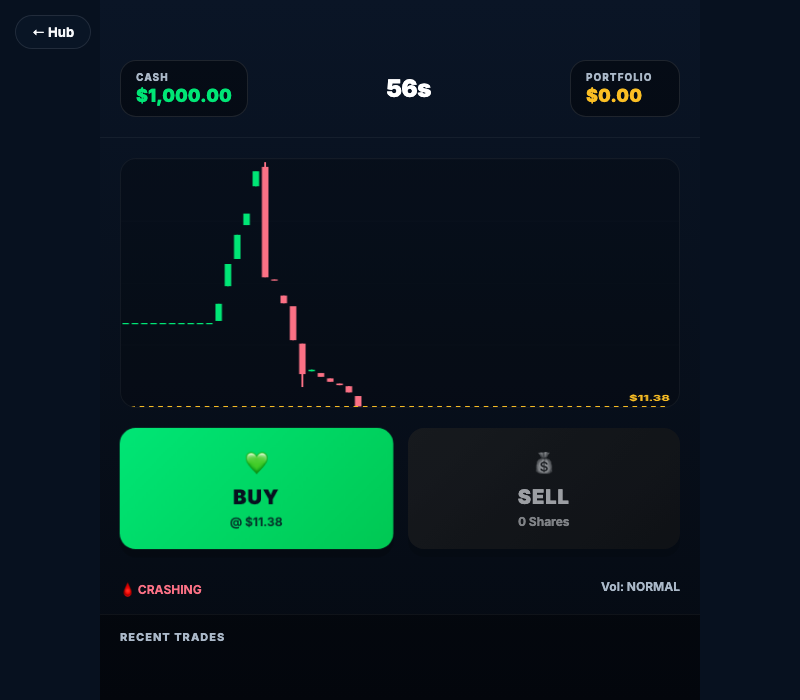
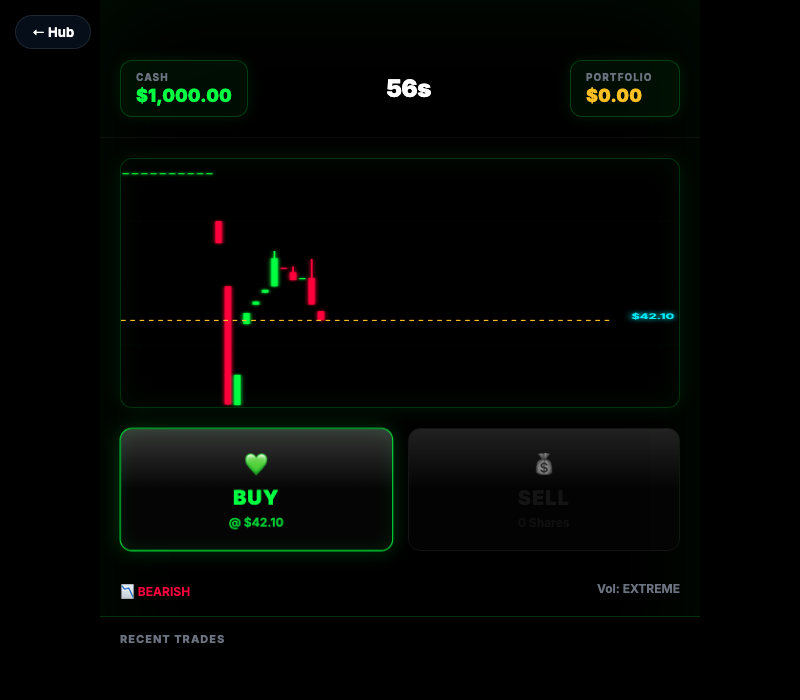
Upgrade graphics to pure black with extreme neon cyber glow

diff --git a/bot-buy-the-dip/style.css b/bot-buy-the-dip/style.css
@@ -1,15 +1,15 @@
 @import url('https://fonts.googleapis.com/css2?family=Inter:wght@400;600;700;800;900&display=swap');
 
 :root {
-  --mb-green: #00E676;
-  --mb-green-dark: #00C853;
-  --mb-ink: #07111F;
-  --mb-ink-2: #0B1628;
-  --mb-white: #F8FAFC;
-  --mb-muted: #AAB8C8;
-  --mb-red: #FB7185;
+  --mb-green: #00FF41;
+  --mb-green-dark: #008F11;
+  --mb-ink: #000000;
+  --mb-ink-2: #050505;
+  --mb-white: #FFFFFF;
+  --mb-muted: #6B7280;
+  --mb-red: #FF003C;
   --mb-gold: #FBBF24;
-  --mb-blue: #38BDF8;
+  --mb-blue: #00F0FF;
 }
 
 * {
@@ -43,8 +43,9 @@ body {
   width: 100%; max-width: 600px;
   height: 100%;
   display: flex; flex-direction: column;
-  background: linear-gradient(to bottom, #0A1526, #050A12);
+  background: #000000;
   position: relative;
+  box-shadow: inset 0 0 100px rgba(0, 255, 65, 0.05);
 }
 
 /* Header */
@@ -55,11 +56,12 @@ body {
 }
 
 .score-pill {
-  background: rgba(0, 0, 0, 0.4);
-  border: 1px solid rgba(255, 255, 255, 0.1);
-  padding: 10px 15px; border-radius: 16px;
+  background: rgba(0, 255, 65, 0.05);
+  border: 1px solid rgba(0, 255, 65, 0.2);
+  padding: 10px 15px; border-radius: 12px;
   display: flex; flex-direction: column;
   min-width: 110px;
+  box-shadow: 0 0 15px rgba(0, 255, 65, 0.1);
 }
 .score-pill .label { font-size: 10px; color: var(--mb-muted); font-weight: 800; letter-spacing: 1px; margin-bottom: 2px; }
 .score-pill .value { font-size: 18px; color: var(--mb-white); font-weight: 900; }
@@ -83,10 +85,11 @@ body {
 
 canvas {
   width: 100%; height: 250px;
-  background: rgba(0, 0, 0, 0.2);
-  border-radius: 16px;
-  border: 1px solid rgba(255, 255, 255, 0.05);
+  background: #000000;
+  border-radius: 12px;
+  border: 1px solid rgba(0, 255, 65, 0.2);
   margin-bottom: 20px;
+  box-shadow: inset 0 0 30px rgba(0, 255, 65, 0.05), 0 0 20px rgba(0, 255, 65, 0.1);
 }
 
 /* Trade Buttons */
@@ -97,15 +100,22 @@ canvas {
 
 .trade-btn {
   flex: 1;
-  border: none; border-radius: 16px;
+  border: 1px solid transparent;
+  border-radius: 12px;
   padding: 20px 10px;
   display: flex; flex-direction: column; align-items: center; justify-content: center;
   cursor: pointer; transition: all 0.2s;
-  box-shadow: 0 8px 0 rgba(0, 0, 0, 0.2);
+  box-shadow: 0 0 20px rgba(0, 0, 0, 0.5);
+  position: relative;
+  overflow: hidden;
+}
+.trade-btn::before {
+  content: ''; position: absolute; top: 0; left: 0; right: 0; height: 50%;
+  background: linear-gradient(rgba(255,255,255,0.2), transparent);
 }
 .trade-btn:active:not(:disabled) {
-  transform: translateY(8px);
-  box-shadow: 0 0 0 rgba(0, 0, 0, 0);
+  transform: scale(0.95);
+  box-shadow: 0 0 10px currentColor;
 }
 .trade-btn:disabled {
   opacity: 0.5; filter: grayscale(1);
@@ -113,12 +123,16 @@ canvas {
 }
 
 .trade-btn.buy {
-  background: linear-gradient(135deg, var(--mb-green), var(--mb-green-dark));
-  color: var(--mb-ink);
+  background: var(--mb-ink-2);
+  border-color: var(--mb-green);
+  color: var(--mb-green);
+  box-shadow: 0 0 20px rgba(0, 255, 65, 0.2), inset 0 0 20px rgba(0, 255, 65, 0.1);
 }
 .trade-btn.sell {
-  background: linear-gradient(135deg, var(--mb-red), #e11d48);
-  color: white;
+  background: var(--mb-ink-2);
+  border-color: var(--mb-red);
+  color: var(--mb-red);
+  box-shadow: 0 0 20px rgba(255, 0, 60, 0.2), inset 0 0 20px rgba(255, 0, 60, 0.1);
 }
 
 .btn-icon { font-size: 24px; margin-bottom: 5px; }
@@ -137,10 +151,11 @@ canvas {
 /* History */
 .history-container {
   height: 150px;
-  background: rgba(0, 0, 0, 0.3);
-  border-top: 1px solid rgba(255, 255, 255, 0.05);
+  background: #000000;
+  border-top: 1px solid rgba(0, 255, 65, 0.2);
   padding: 15px 20px;
   display: flex; flex-direction: column;
+  box-shadow: inset 0 10px 20px rgba(0, 0, 0, 0.5);
 }
 .history-header {
   font-size: 11px; font-weight: 800; color: var(--mb-muted); text-transform: uppercase; letter-spacing: 1px;
@@ -154,8 +169,9 @@ canvas {
   display: flex; justify-content: space-between;
   font-size: 13px; font-weight: 600;
   padding: 8px 12px;
-  background: rgba(255, 255, 255, 0.03);
-  border-radius: 8px;
+  background: #0a0a0a;
+  border: 1px solid rgba(255, 255, 255, 0.05);
+  border-radius: 6px;
   animation: slideIn 0.3s ease-out;
 }
 .trade-item.buy { border-left: 3px solid var(--mb-green); }
@@ -175,9 +191,10 @@ canvas {
 }
 .modal.active { opacity: 1; pointer-events: all; }
 .modal-content {
-  background: linear-gradient(145deg, rgba(15, 30, 50, 0.95), rgba(7, 15, 25, 0.98));
-  border: 1px solid rgba(255, 255, 255, 0.1);
-  border-radius: 24px;
+  background: #000000;
+  border: 1px solid var(--mb-green);
+  box-shadow: 0 0 50px rgba(0, 255, 65, 0.2), inset 0 0 30px rgba(0, 255, 65, 0.1);
+  border-radius: 16px;
   padding: 40px 30px;
   text-align: center;
   max-width: 350px; width: 90%;
@@ -193,13 +210,17 @@ canvas {
 
 .primary-btn {
   width: 100%; padding: 16px;
-  background: linear-gradient(135deg, var(--mb-green), var(--mb-green-dark));
-  border: none; border-radius: 16px;
+  background: #000000;
+  border: 1px solid var(--mb-green);
+  border-radius: 12px;
   font-size: 16px; font-weight: 900;
-  color: var(--mb-ink); cursor: pointer;
-  transition: transform 0.2s;
+  color: var(--mb-green); cursor: pointer;
+  transition: all 0.2s;
+  text-transform: uppercase;
+  letter-spacing: 2px;
+  box-shadow: 0 0 15px rgba(0, 255, 65, 0.2);
 }
-.primary-btn:active { transform: scale(0.96); }
+.primary-btn:active { transform: scale(0.96); box-shadow: 0 0 30px rgba(0, 255, 65, 0.5); }
 
 /* Floating Text */
 .float-text {
@@ -266,11 +287,17 @@ canvas {
 
 /* Enhanced button states */
 .trade-btn.buy:disabled {
-  background: linear-gradient(135deg, #1a3a2a, #0f2a1a);
+  background: #050505;
+  border-color: #1a3a2a;
+  color: #1a3a2a;
+  box-shadow: none;
   opacity: 0.6;
 }
 
 .trade-btn.sell:disabled {
-  background: linear-gradient(135deg, #3a1a2a, #2a0f1a);
+  background: #050505;
+  border-color: #3a1a2a;
+  color: #3a1a2a;
+  box-shadow: none;
   opacity: 0.6;
 }

diff --git a/bot-buy-the-dip/game.js b/bot-buy-the-dip/game.js
@@ -203,11 +203,11 @@ function updateMarket(dt) {
             triggerEvent();
         }
         
-        if (trend > 0.5) { trendEl.textContent = '🚀 MEGA BULL'; trendEl.style.color = '#00E676'; }
-        else if (trend > 0.2) { trendEl.textContent = '📈 BULL RUN'; trendEl.style.color = '#00E676'; }
-        else if (trend > -0.2) { trendEl.textContent = '🔄 CHOPPY'; trendEl.style.color = '#FBBF24'; }
-        else if (trend > -0.5) { trendEl.textContent = '📉 BEARISH'; trendEl.style.color = '#FB7185'; }
-        else { trendEl.textContent = '🩸 CRASHING'; trendEl.style.color = '#FB7185'; }
+        if (trend > 0.5) { trendEl.textContent = '🚀 MEGA BULL'; trendEl.style.color = '#00FF41'; trendEl.style.textShadow = '0 0 10px #00FF41'; }
+        else if (trend > 0.2) { trendEl.textContent = '📈 BULL RUN'; trendEl.style.color = '#00FF41'; trendEl.style.textShadow = 'none'; }
+        else if (trend > -0.2) { trendEl.textContent = '🔄 CHOPPY'; trendEl.style.color = '#FBBF24'; trendEl.style.textShadow = 'none'; }
+        else if (trend > -0.5) { trendEl.textContent = '📉 BEARISH'; trendEl.style.color = '#FF003C'; trendEl.style.textShadow = 'none'; }
+        else { trendEl.textContent = '🩸 CRASHING'; trendEl.style.color = '#FF003C'; trendEl.style.textShadow = '0 0 10px #FF003C'; }
         
         volEl.textContent = `Vol: ${volatility > 3 ? 'EXTREME' : volatility > 2 ? 'HIGH' : 'NORMAL'}`;
     }
@@ -278,7 +278,7 @@ function drawChart() {
     const spacing = canvas.width / MAX_POINTS;
     
     // Draw grid
-    ctx.strokeStyle = 'rgba(255,255,255,0.03)';
+    ctx.strokeStyle = 'rgba(0, 255, 65, 0.05)';
     ctx.lineWidth = 1;
     for (let i = 0; i < 5; i++) {
         const y = canvas.height - (i / 4) * canvas.height;
@@ -294,7 +294,10 @@ function drawChart() {
         const yLow = canvas.height - ((candle.low - minP) / range) * canvas.height;
         
         const isGreen = candle.close >= candle.open;
-        const color = isGreen ? '#00E676' : '#FB7185';
+        const color = isGreen ? '#00FF41' : '#FF003C';
+        
+        ctx.shadowBlur = 5;
+        ctx.shadowColor = color;
         
         // Wick
         ctx.strokeStyle = color;
@@ -309,6 +312,8 @@ function drawChart() {
         const bodyHeight = Math.max(2, Math.abs(yClose - yOpen));
         const bodyY = Math.min(yOpen, yClose);
         ctx.fillRect(x - candleWidth / 2, bodyY, candleWidth, bodyHeight);
+        
+        ctx.shadowBlur = 0;
     });
     
     // Draw current price indicator
@@ -325,10 +330,15 @@ function drawChart() {
     ctx.setLineDash([]);
     
     // Price tag
-    ctx.fillStyle = '#FBBF24';
+    ctx.fillStyle = '#000000';
+    ctx.fillRect(canvas.width - 70, lastY - 15, 70, 20);
+    ctx.fillStyle = '#00F0FF';
+    ctx.shadowBlur = 10;
+    ctx.shadowColor = '#00F0FF';
     ctx.font = 'bold 14px Inter';
     ctx.textAlign = 'right';
-    ctx.fillText(formatMoney(currentPrice), canvas.width - 10, lastY - 10);
+    ctx.fillText(formatMoney(currentPrice), canvas.width - 5, lastY - 2);
+    ctx.shadowBlur = 0;
     
     // Draw avg cost line if holding
     if (state.shares > 0) {
@@ -645,5 +655,5 @@ window.addEventListener('keydown', (e) => {
 
 // Initial draw
 resize();
-ctx.fillStyle = '#050A12';
+ctx.fillStyle = '#000000';
 ctx.fillRect(0, 0, canvas.width, canvas.height);